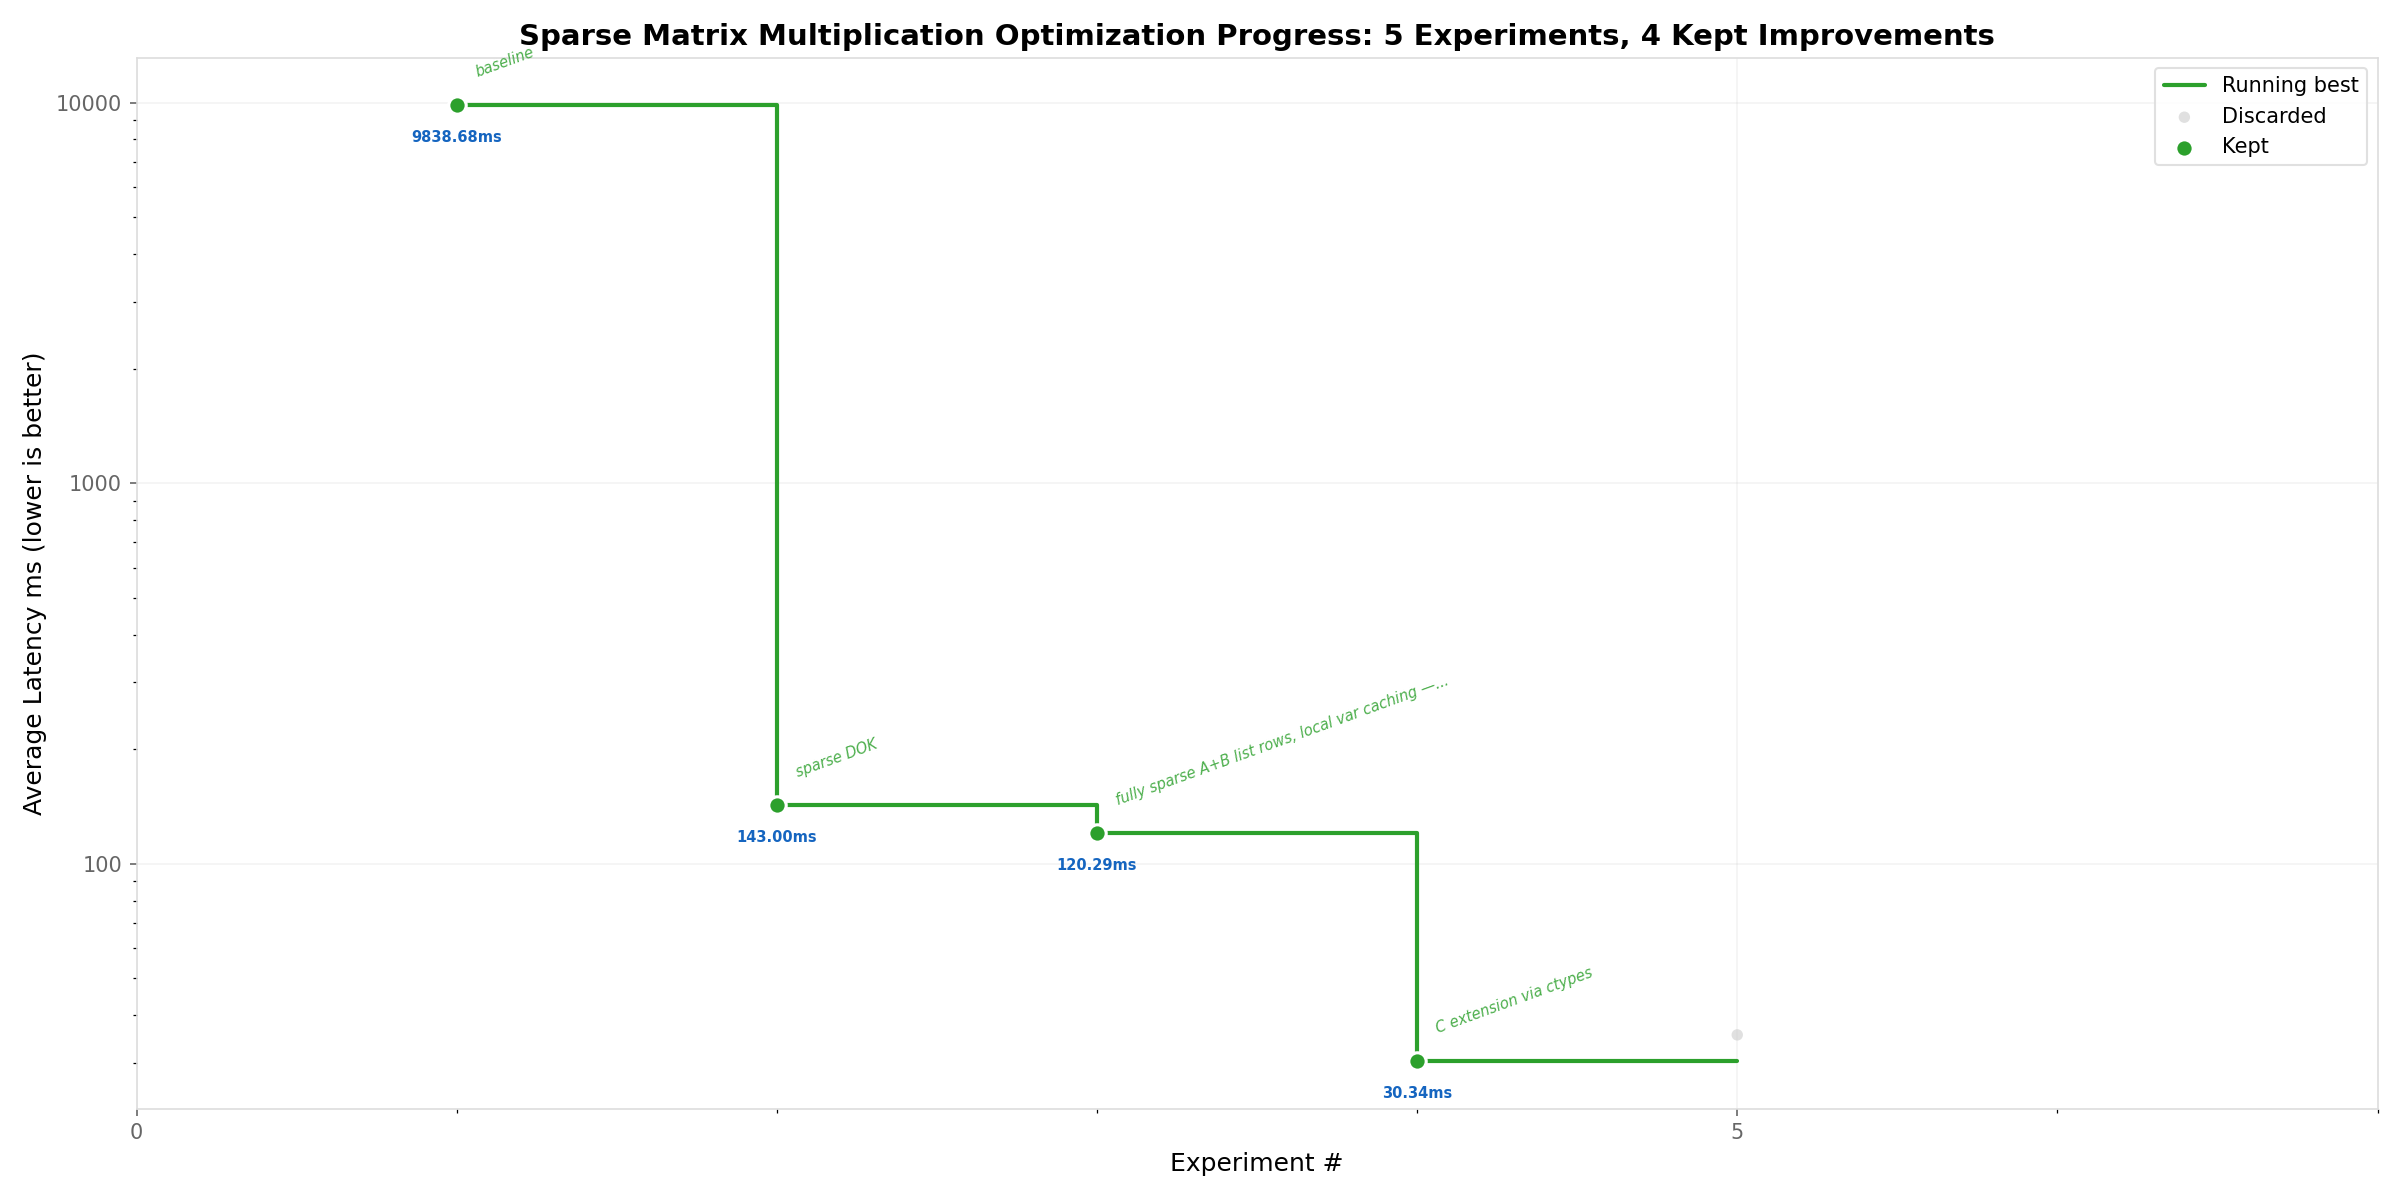
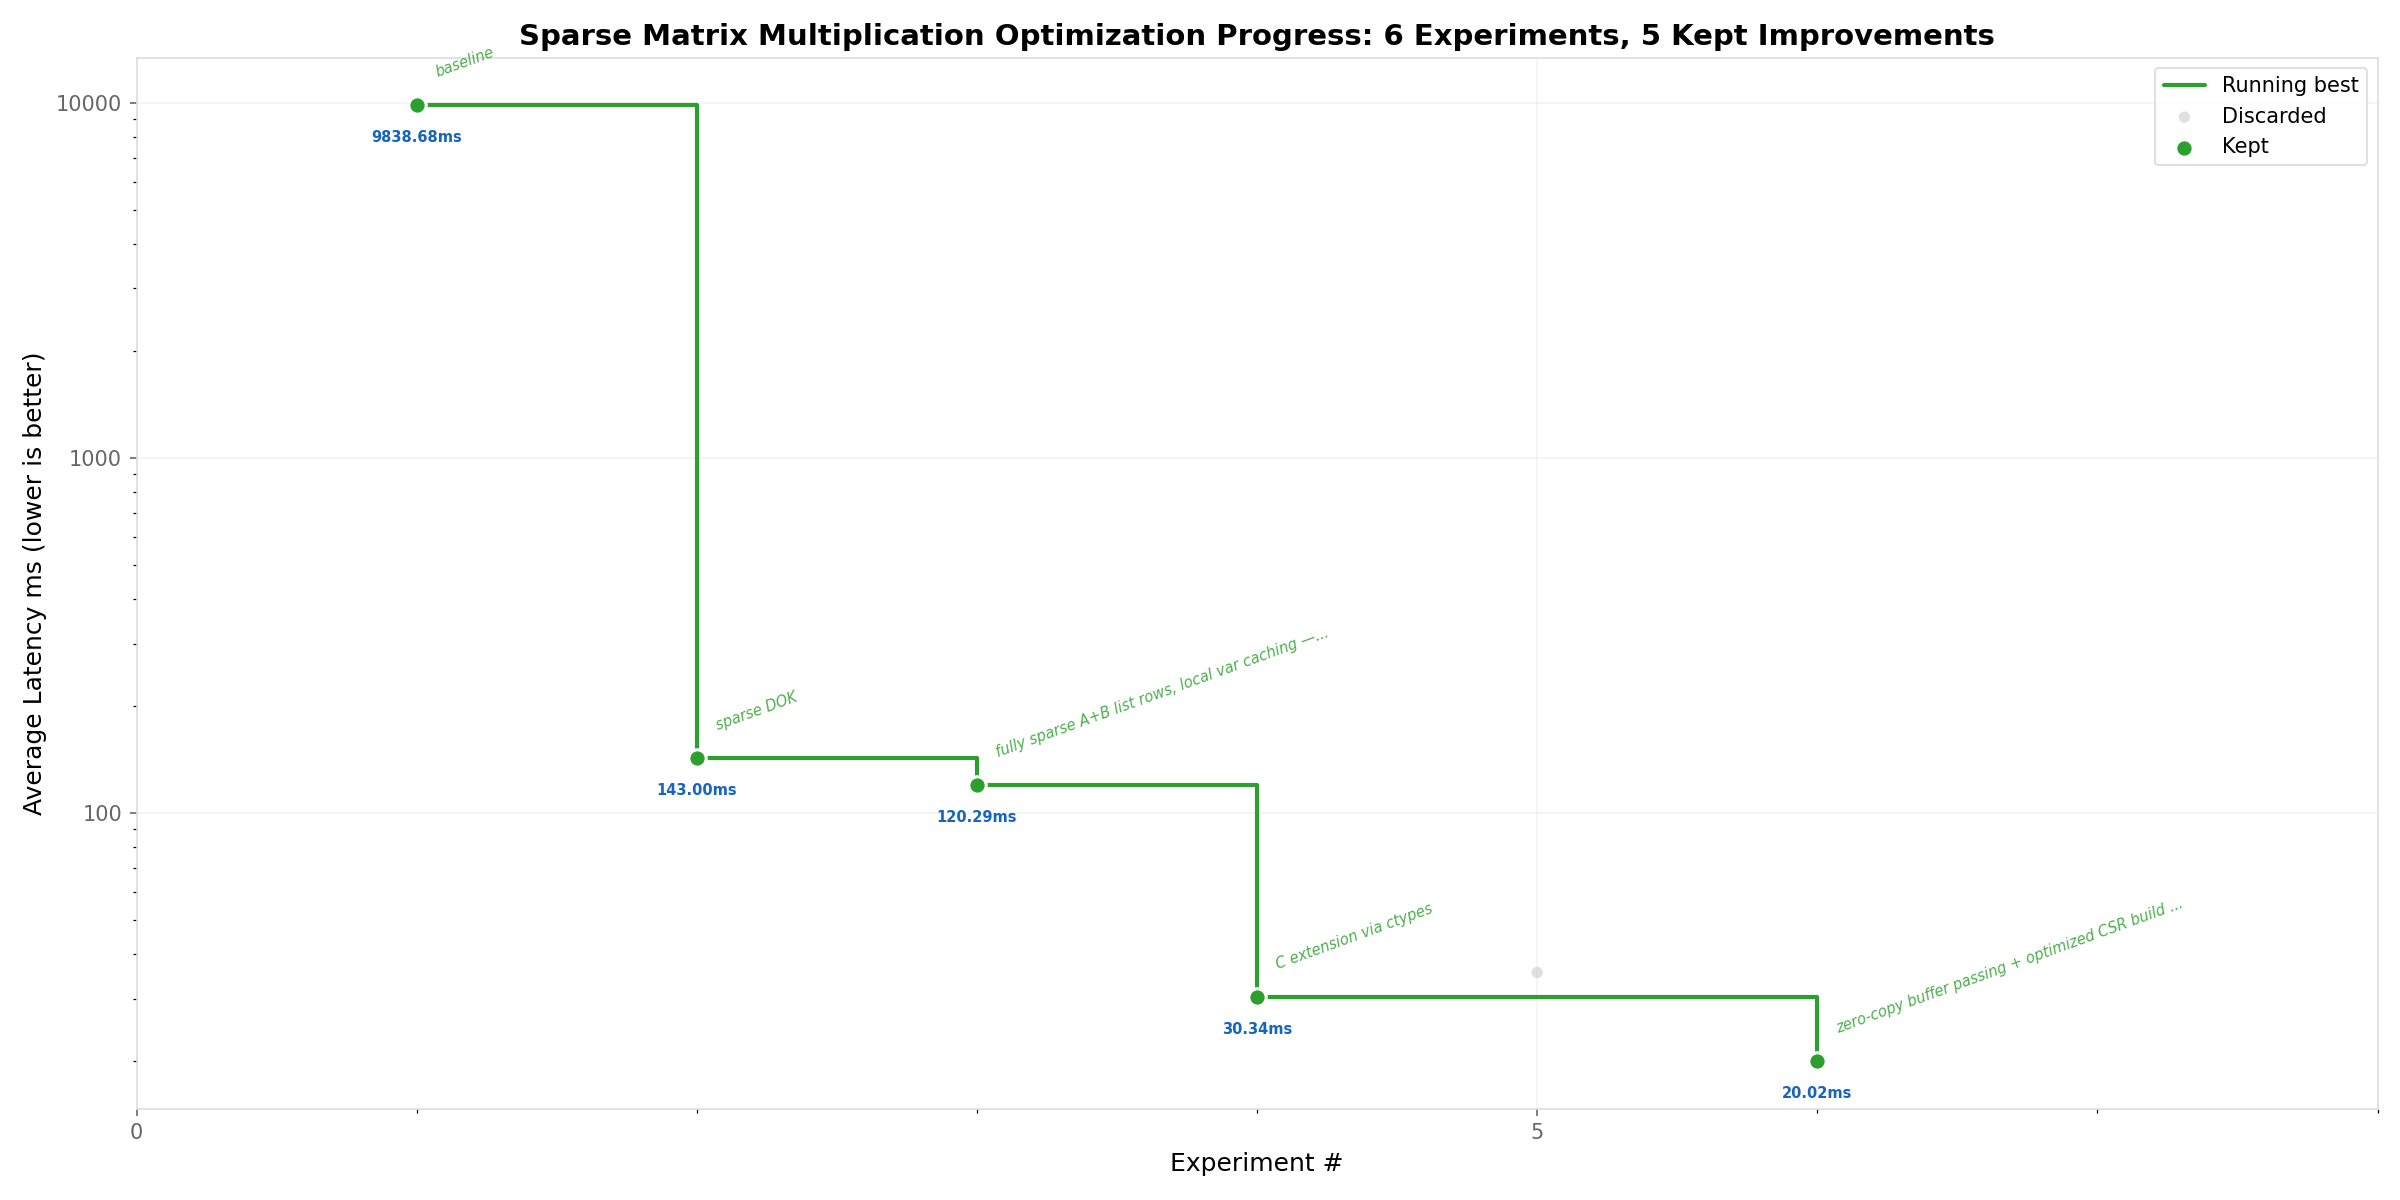
Experiment 6 results: zero-copy 20.02ms (490x vs baseline), 50/50 passed

diff --git a/progress.md b/progress.md
@@ -59,3 +59,14 @@
 - **Observation**: Moving ALL elements through Python-C boundary is slower than only marshaling non-zeros. Reverted to exp 4.
 
 ---
+
+### Experiment 6 — Zero-Copy Buffer Passing + Optimized CSR
+
+- **Tag**: apr07_0116 — Experiment 6 — f29e735
+- **Algorithm**: Use array.array buffer_info() for zero-copy pointer passing to C. Optimized CSR build with cached append methods.
+- **Time Complexity**: Same O(nnz(A) * avg_nnz_per_row(B)), lower constant from zero-copy.
+- **Pros**: 34% improvement over exp 4. Eliminates ctypes array creation overhead.
+- **Result**: 50/50 passed, avg latency 20.02 ms
+- **Observation**: ~490x vs baseline. Next: focus on algorithmic improvements rather than systems optimizations.
+
+---

diff --git a/README.md b/README.md
@@ -11,3 +11,4 @@ This repo aims to optimize the time complexity for Sparse Matrix multiplication 
 | 3 | 120.29 ms | keep | Fully sparse A+B, local var caching |
 | 4 | 30.34 ms | keep | C extension via ctypes, 324x vs baseline |
 | 5 | 35.55 ms | discard | Dense-input C — worse than CSR marshaling |
+| 6 | 20.02 ms | keep | Zero-copy buffer, 490x vs baseline |
